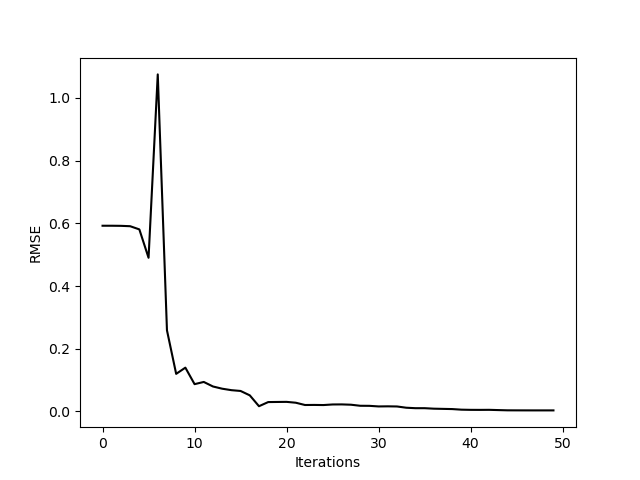
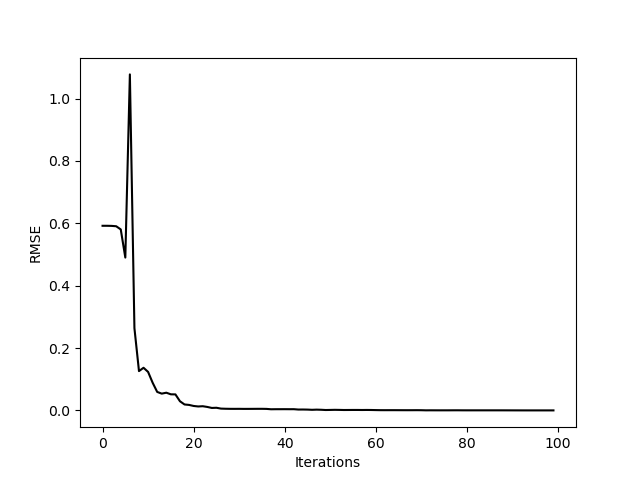
graph updates

diff --git a/finalexecution.py b/finalexecution.py
@@ -19,7 +19,7 @@ import matplotlib.patches as patches
 # Implemented by Aiman Munir - Ph.D. Candidate, UGA School of Computing
 ##################################################################################
 
-charger_colors = ['#00FF00', '#00B300', '#008000', '#00FF00', '#00FF80']
+charger_colors = ['#00FF00', '#00B300', '#008000', '#00FF00', '#00FF80', '#008080']
 battery_colors = ['#00FF00', '#00B300', '#008000', '#00FF00', '#00FF80', '#008080', '#00FF00', '#808000', '#008000', '#FF00FF']
 
 recharger1_point = patches.Circle((-1, -1), radius=0.03, color=charger_colors[4])  # Blue color for charging points
@@ -27,6 +27,7 @@ recharger2_point = patches.Circle((1, -1), radius=0.03, color=charger_colors[4])
 recharger3_point = patches.Circle((-1, 1), radius=0.03, color=charger_colors[4])
 recharger4_point = patches.Circle((1, 1), radius=0.03, color=charger_colors[4])
 recharger5_point = patches.Circle((0, 0.5), radius=0.03, color=charger_colors[4])
+recharger6_point = patches.Circle((0.5, 0), radius=0.03, color=charger_colors[4])
 
 recharger_points = [recharger1_point, recharger2_point, recharger3_point, recharger4_point, recharger5_point]
 
@@ -37,7 +38,7 @@ idle_consumption_rate = 0.01
 idle_consumption_rate = 0.15
 
 # Assign charging points to robots
-robot_charging_points = [recharger1_point, recharger2_point, recharger3_point, recharger4_point, recharger5_point]
+robot_charging_points = [recharger1_point, recharger2_point, recharger3_point, recharger4_point, recharger5_point, recharger6_point]
 
 def find_nearest_charging_station(robot_position, charging_points):
     min_distance = float('inf')
@@ -88,6 +89,7 @@ def executeIPP_py(N=4, resolution=0.1, number_of_iterations=20, show_fig_flag=Tr
     charging_threshold = 0.05
     charging_rate = 0.1
     transition_iterations = 10
+    battery_levels_array = np.zeros((number_of_iterations, N))
 
 
     # Create a plot for battery levels
@@ -167,6 +169,8 @@ def executeIPP_py(N=4, resolution=0.1, number_of_iterations=20, show_fig_flag=Tr
                 current_position_marker_handle[robot_r].remove()
                 hullObject = global_hull_figHandles[robot_r]
                 hullObject.remove()
+
+        battery_levels_array[iteration, :] = battery_levels
         
         ## Coverage Part of the Algorithm
         # Perform Voronoi Partitioning        
@@ -363,6 +367,15 @@ def executeIPP_py(N=4, resolution=0.1, number_of_iterations=20, show_fig_flag=Tr
         ax_cost.set_ylabel("Locational Cost")
         cum_dis_plot = ax_cost.plot(iteration_array,locational_cost, color = "black",label="locationalCost")
 
+        # Fig: Battery Levels
+        fig_battery = plt.figure()
+        ax_battery = fig_battery.add_subplot()
+        ax_battery.set_xlabel("Iterations")
+        ax_battery.set_ylabel("Battery Level")
+        for i in range(N):
+            ax_battery.plot(iteration_array, battery_levels_array[:, i], label=f'Robot {i+1}', color=ROBOT_COLOR[i])
+        ax_battery.legend()
+
         #saveFigs
         if save_fig_flag:
             fig_dis_centroid.savefig(file_path+"distance_to_centroid.png")
@@ -377,6 +390,7 @@ def executeIPP_py(N=4, resolution=0.1, number_of_iterations=20, show_fig_flag=Tr
             fig_beta_val.savefig(file_path+"beta_val.png")
             fig_rt_val.savefig(file_path+"gamma_coeff.png")
             fig_regret.savefig(file_path+"regret.png")
+            fig_battery.savefig('battery_levels_plot.png')
             
         plt.show()
         plt.pause(20)
@@ -386,4 +400,4 @@ def executeIPP_py(N=4, resolution=0.1, number_of_iterations=20, show_fig_flag=Tr
 
 if __name__=="__main__":
     #Max 10 robots
-    executeIPP_py(N=6, resolution=0.02,number_of_iterations=50, show_fig_flag=True,save_fig_flag=True)     
+    executeIPP_py(N=6, resolution=0.02,number_of_iterations=100, show_fig_flag=True,save_fig_flag=True)     
